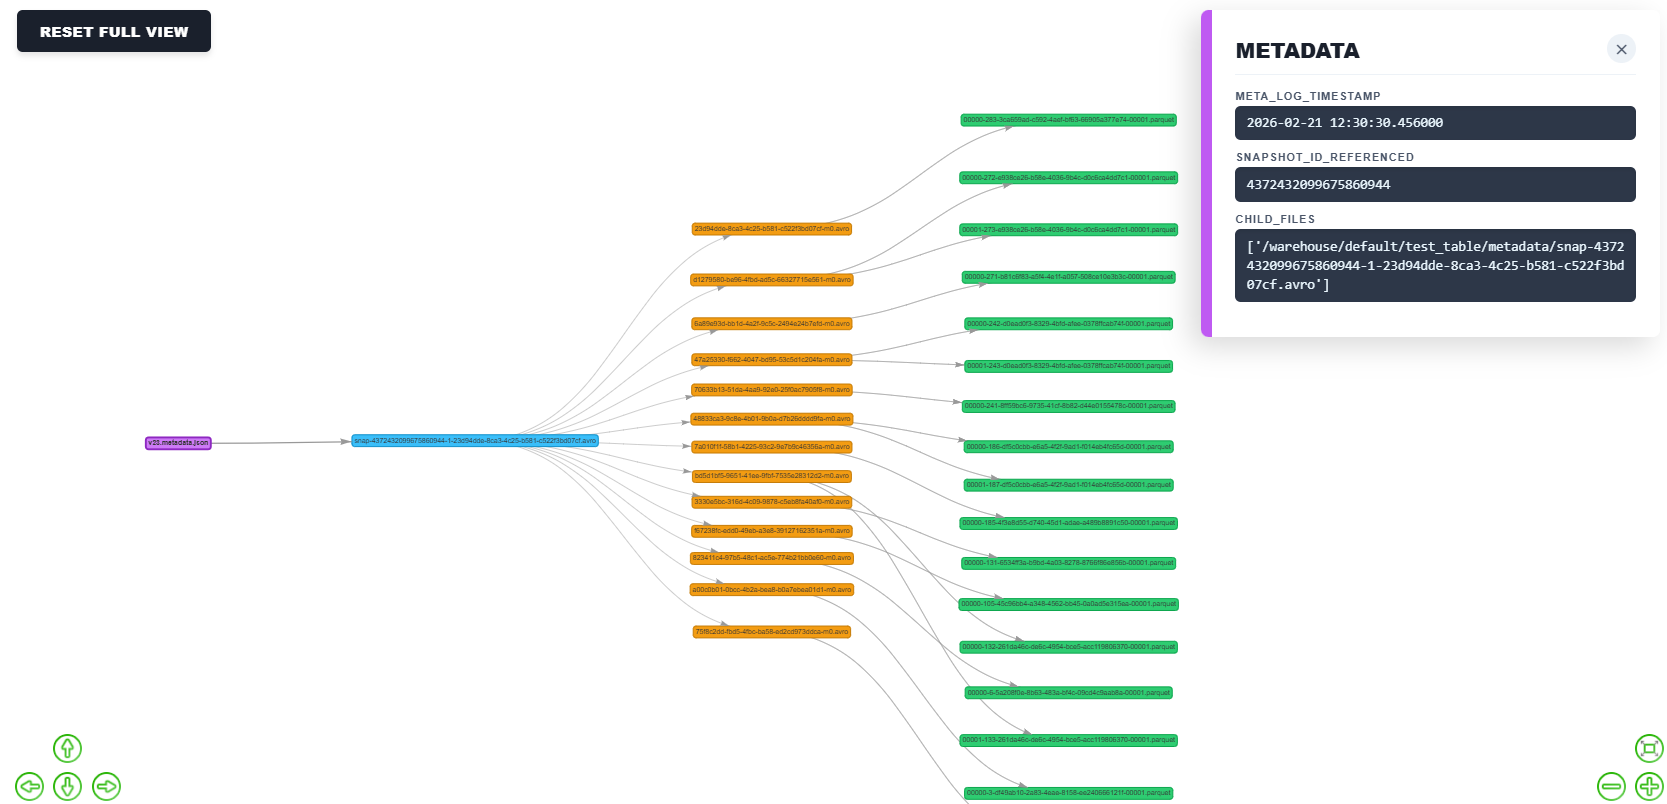
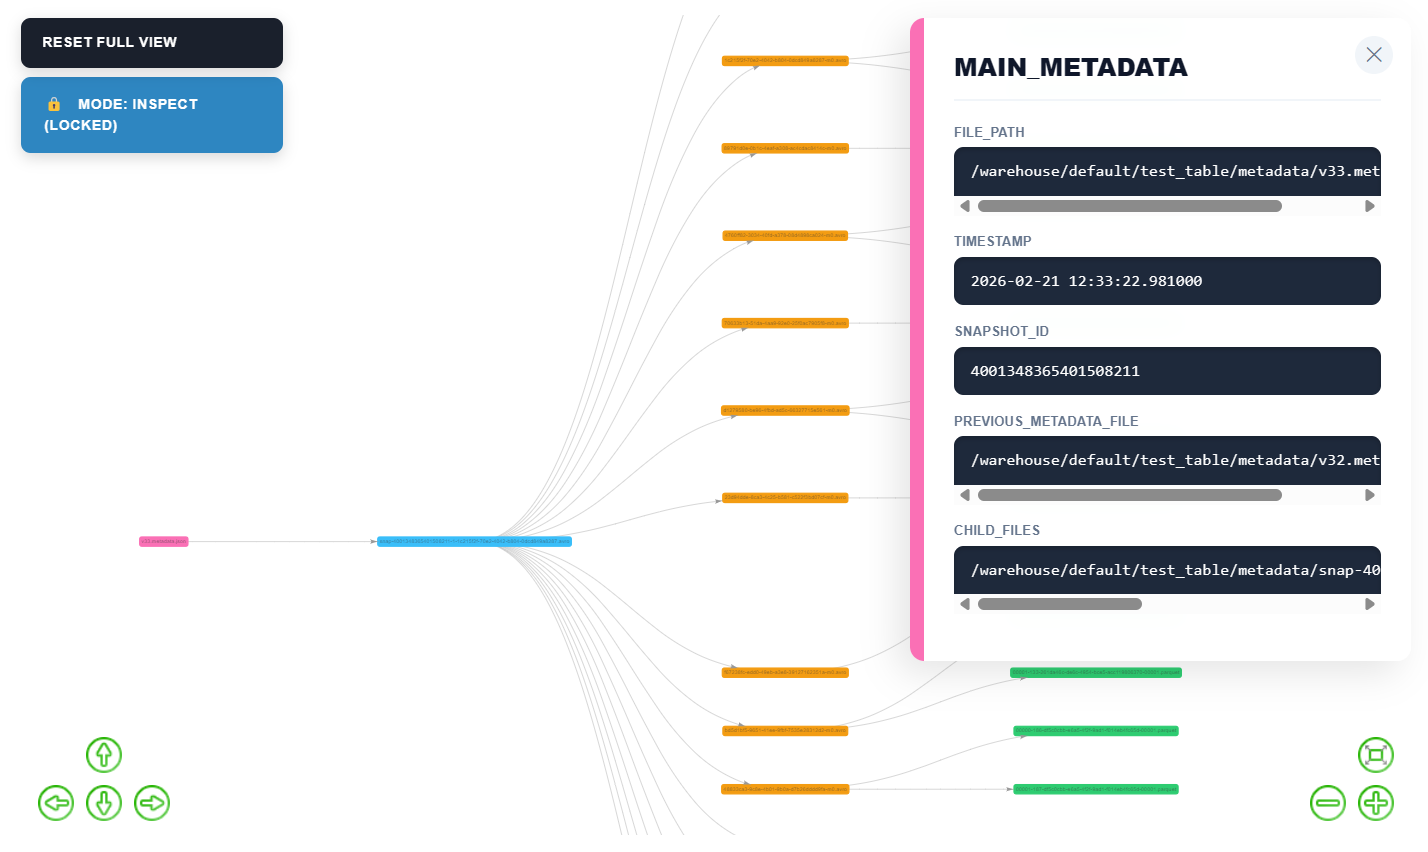
readme

diff --git a/README.md b/README.md
@@ -10,6 +10,7 @@
 
 * 🕰 **Time-Travel**: View the physical state of your table as of any `datetime`.
 * 🎯 **Lineage Focus**: Click a node to isolate its specific upstream and downstream path.
+* 🔒 **Inspect Mode**: Toggle the **Lock View** to explore file metadata in the side panel without shifting the graph's visibility.
 * 📋 **Metadata Inspector**: A sticky side panel displaying record counts, stats, and file paths.
 * 🌳 **Directed Layout**: Left-to-Right (LR) flow representing the Metadata ➔ Data hierarchy.
 * 🔴 **MOR Awareness**: Visual tracking of Equality and Position delete files.
@@ -59,8 +60,14 @@ Go to `http://localhost:5000` and explore your mock tables.
 
 | Color | Type | Role |
 | --- | --- | --- |
-| 🟣 | **Metadata** | The root JSON source of truth. The pink Metadata is the current one. The rest shift in color, the more recent, the more color. |
-| 🔵 | **Snapshot** | Manifest List representing a table version. |
-| 🟠 | **Manifest** | Groupings of physical data files. |
-| 🟢 | **Data** | Parquet/Avro files containing records. |
-| 🔴 | **Deletes** | MOR markers (Equality/Position deletes). |
+| 🟣 | **Metadata** | The root JSON source. The **Pink** node is the current state; others fade with age. |
+| 🔵 | **Snapshot** | The Manifest List representing a specific table version. |
+| 🟠 | **Manifest** | Groupings of physical data files (Avro). |
+| 🟢 | **Data** | Parquet/Avro files containing actual records. |
+| 🔴 | **Deletes** | MOR markers (Equality or Position delete files). |
+
+## 🎮 UI Controls
+
+* **Reset Full View**: Clears all filters and returns the graph to its full hierarchical state.
+* **Mode: Lineage Traversal**: Default mode. Clicking a node hides everything except its direct parents and children.
+* **Mode: Inspect (Locked)**: Keeps the current graph layout static. Clicking nodes updates the **Metadata Inspector** without changing visibility.
